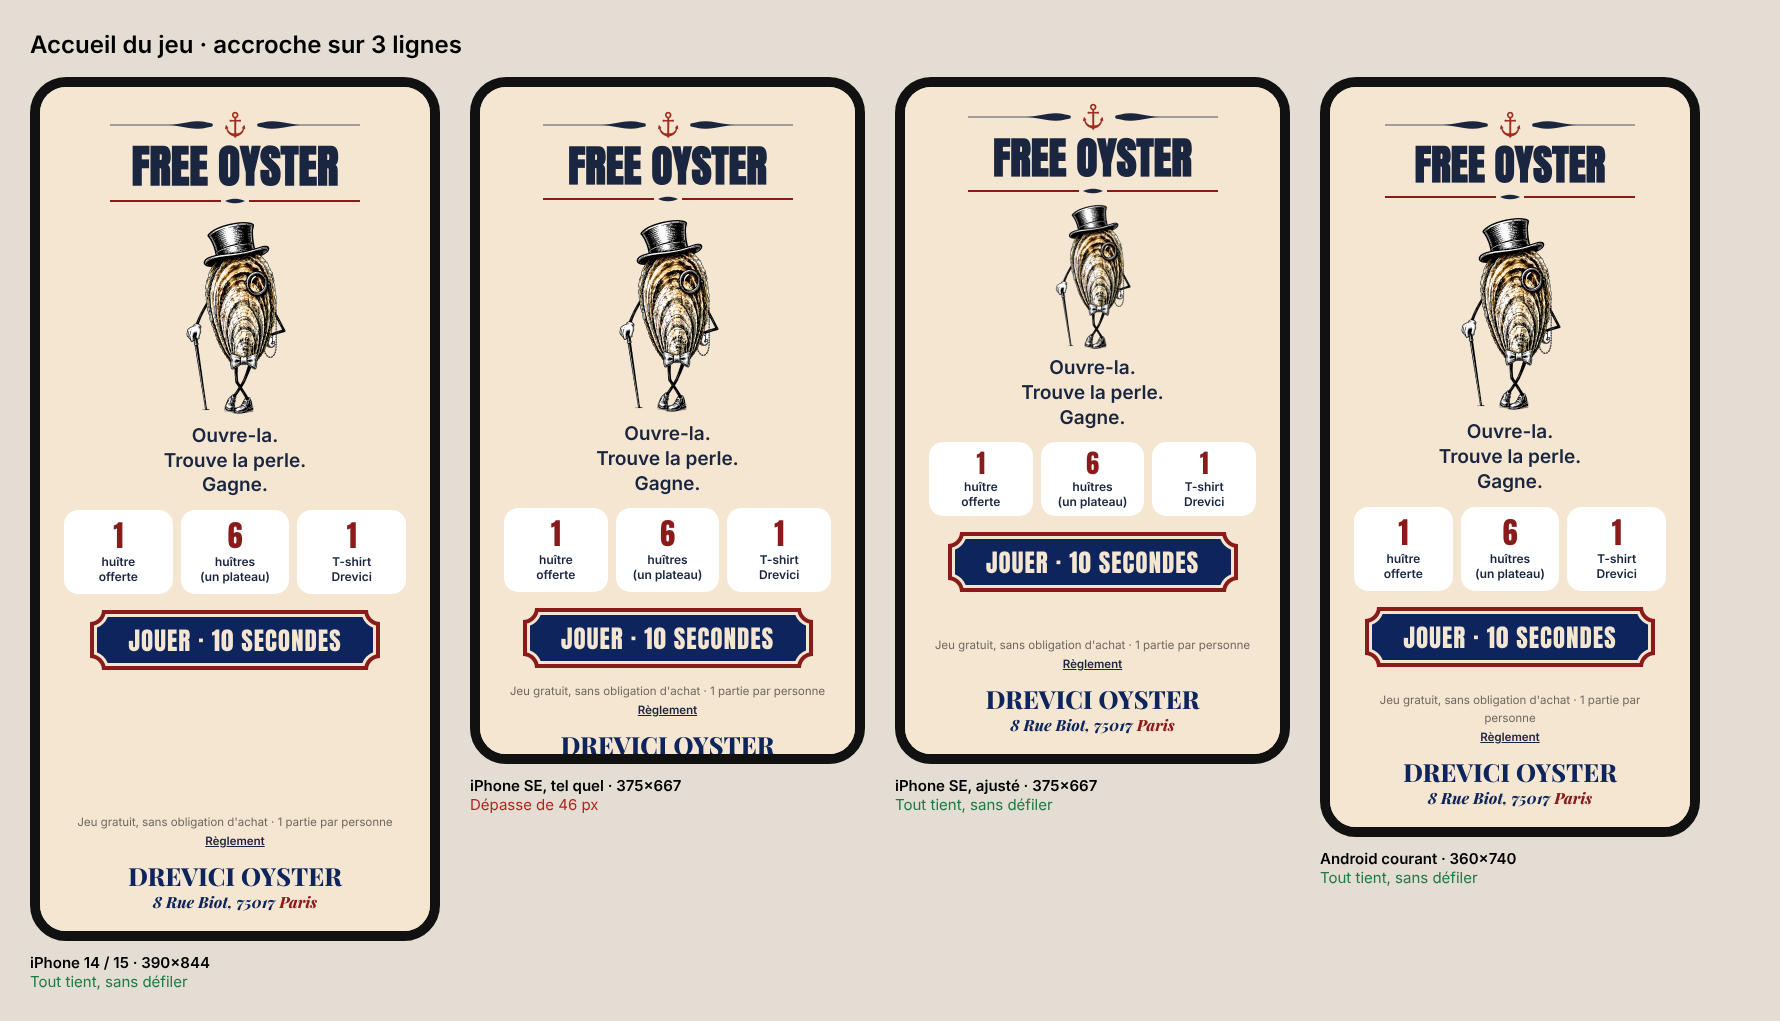
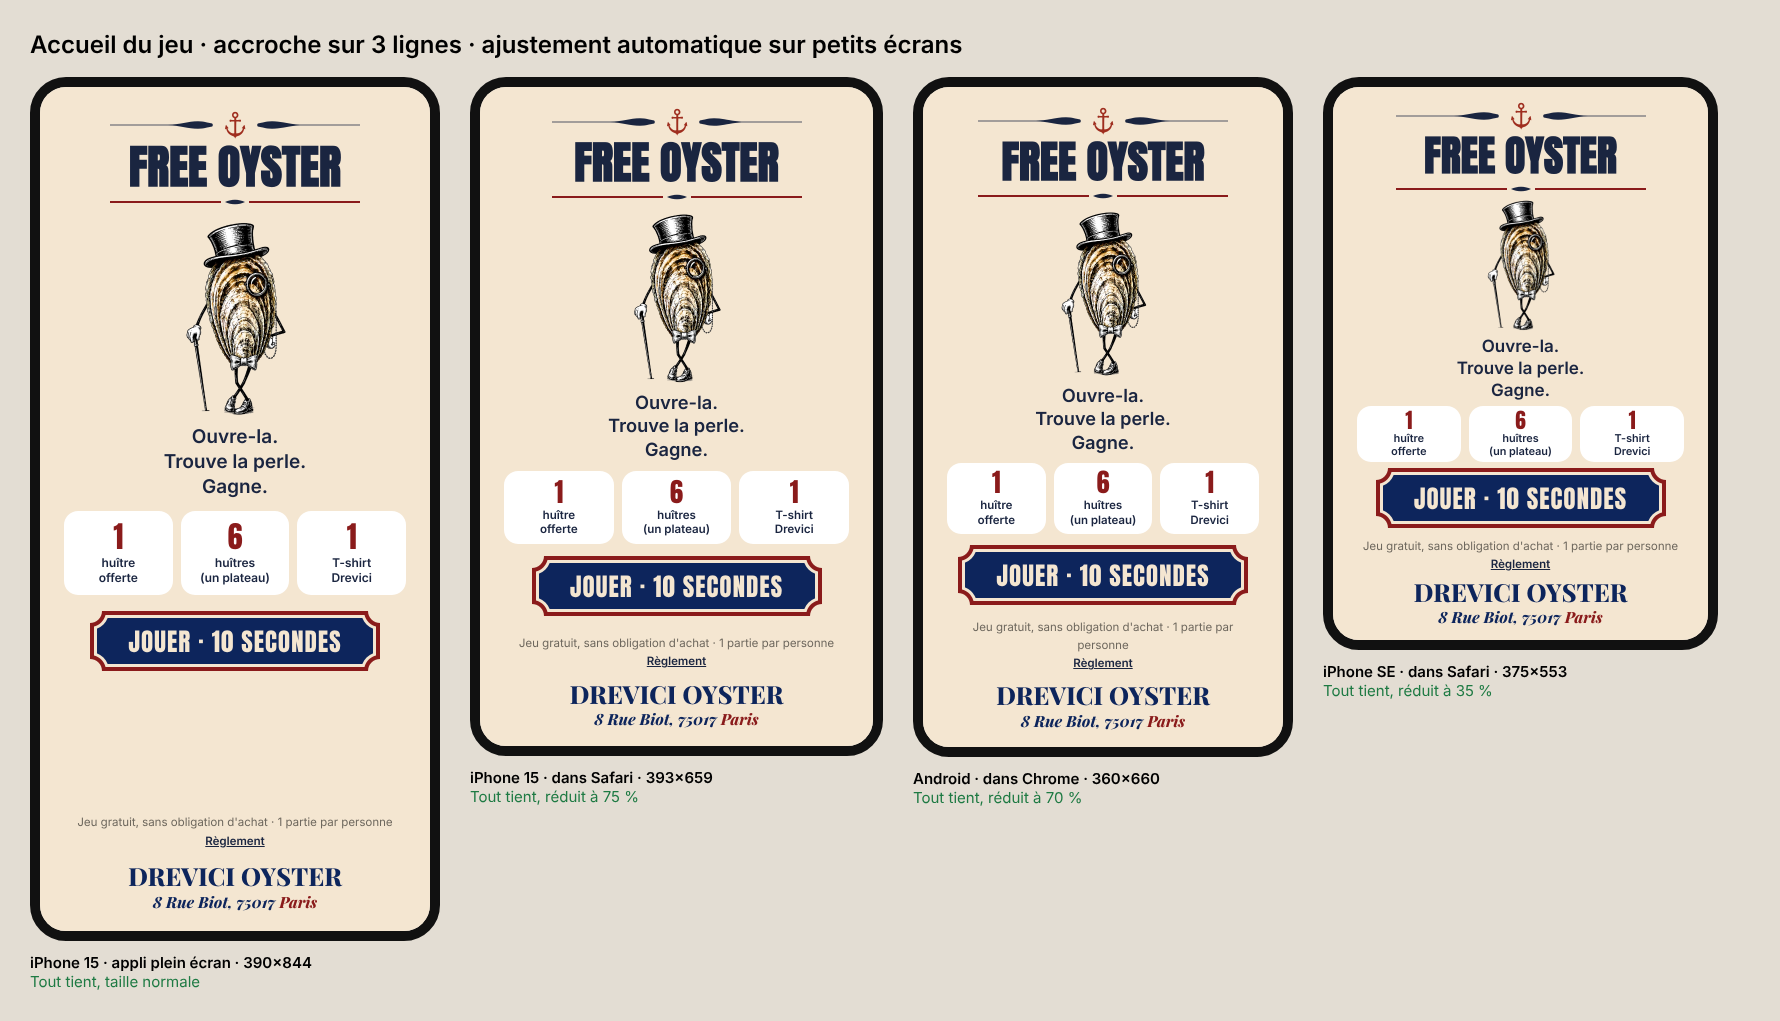
Jeu Free Oyster : maquette ajustement automatique de l'accueil aux petits écrans
Claude-Session: https://claude.ai/code/session_012ueJSkHMqbZpvX7x5D3Dw2

diff --git a/tools/jeu/maquette-accroche.html b/tools/jeu/maquette-accroche.html
@@ -1,1 +1,1 @@
-<!doctype html><html><head><meta charset="utf-8"><link rel="stylesheet" href="https://fonts.googleapis.com/css2?family=Inter:wght@400;600&display=swap"></head><body style="margin:0;background:#e3ddd3;padding:30px;width:1720px;font-family:Inter"><h1 style="font-size:24px;margin:0 0 18px">Accueil du jeu · accroche sur 3 lignes</h1><div style="display:flex;gap:30px;align-items:flex-start"><figure style="margin:0"><img src="_accroche-390x844-0.png" style="width:390px;height:844px;border-radius:36px;border:10px solid #111"><figcaption style="font:600 15px Inter;margin-top:8px">iPhone 14 / 15 · 390×844<br><span style="font-weight:400;color:#1e7a43">Tout tient, sans défiler</span></figcaption></figure><figure style="margin:0"><img src="_accroche-375x667-0.png" style="width:375px;height:667px;border-radius:36px;border:10px solid #111"><figcaption style="font:600 15px Inter;margin-top:8px">iPhone SE, tel quel · 375×667<br><span style="font-weight:400;color:#b3261e">Dépasse de 46 px</span></figcaption></figure><figure style="margin:0"><img src="_accroche-375x667-1.png" style="width:375px;height:667px;border-radius:36px;border:10px solid #111"><figcaption style="font:600 15px Inter;margin-top:8px">iPhone SE, ajusté · 375×667<br><span style="font-weight:400;color:#1e7a43">Tout tient, sans défiler</span></figcaption></figure><figure style="margin:0"><img src="_accroche-360x740-0.png" style="width:360px;height:740px;border-radius:36px;border:10px solid #111"><figcaption style="font:600 15px Inter;margin-top:8px">Android courant · 360×740<br><span style="font-weight:400;color:#1e7a43">Tout tient, sans défiler</span></figcaption></figure></div></body></html>
+<!doctype html><html><head><meta charset="utf-8"><link rel="stylesheet" href="https://fonts.googleapis.com/css2?family=Inter:wght@400;600&display=swap"></head><body style="margin:0;background:#e3ddd3;padding:30px;width:1720px;font-family:Inter"><h1 style="font-size:24px;margin:0 0 18px">Accueil du jeu · accroche sur 3 lignes · ajustement automatique sur petits écrans</h1><div style="display:flex;gap:30px;align-items:flex-start"><figure style="margin:0"><img src="_accroche-390x844-1.png" style="width:390px;height:844px;border-radius:36px;border:10px solid #111"><figcaption style="font:600 15px Inter;margin-top:8px">iPhone 15 · appli plein écran · 390×844<br><span style="font-weight:400;color:#1e7a43">Tout tient, taille normale</span></figcaption></figure><figure style="margin:0"><img src="_accroche-393x659-1.png" style="width:393px;height:659px;border-radius:36px;border:10px solid #111"><figcaption style="font:600 15px Inter;margin-top:8px">iPhone 15 · dans Safari · 393×659<br><span style="font-weight:400;color:#1e7a43">Tout tient, réduit à 75 %</span></figcaption></figure><figure style="margin:0"><img src="_accroche-360x660-1.png" style="width:360px;height:660px;border-radius:36px;border:10px solid #111"><figcaption style="font:600 15px Inter;margin-top:8px">Android · dans Chrome · 360×660<br><span style="font-weight:400;color:#1e7a43">Tout tient, réduit à 70 %</span></figcaption></figure><figure style="margin:0"><img src="_accroche-375x553-1.png" style="width:375px;height:553px;border-radius:36px;border:10px solid #111"><figcaption style="font:600 15px Inter;margin-top:8px">iPhone SE · dans Safari · 375×553<br><span style="font-weight:400;color:#1e7a43">Tout tient, réduit à 35 %</span></figcaption></figure></div></body></html>

diff --git a/tools/jeu/maquette-accroche.py b/tools/jeu/maquette-accroche.py
@@ -3,8 +3,19 @@ import asyncio
 from playwright.async_api import async_playwright
 OUT = '/home/claude/menu/tools/jeu/'
 NEW = '<div class="tx" style="font:600 19px/1.3 Inter;margin-bottom:12px">Ouvre-la.<br>Trouve la perle.<br>Gagne.</div>'
-SIZES = [(390, 844, 'iPhone 14 / 15', 0), (375, 667, 'iPhone SE, tel quel', 0), (375, 667, 'iPhone SE, ajusté', 1), (360, 740, 'Android courant', 0)]
-FIX = '@media (max-height:700px){#s-home img{height:150px!important;margin:6px 0 4px!important}.lot{padding:8px 4px 7px}.lot b{font-size:26px}.scr{padding-top:calc(env(safe-area-inset-top) + 14px)}}'
+SIZES = [(390, 844, 'iPhone 15 · appli plein écran', 1), (393, 659, 'iPhone 15 · dans Safari', 1), (360, 660, 'Android · dans Chrome', 1), (375, 553, 'iPhone SE · dans Safari', 1)]
+FITCSS = '''#s-home{--k:1}
+#s-home .masc{height:calc(200px*(.5 + .5*var(--k)))!important;margin:calc(12px*var(--k)) 0 calc(6px*var(--k))!important}
+#s-home .tx{font-size:calc(19px*(.84 + .16*var(--k)))!important;margin-bottom:calc(12px*var(--k))!important}
+#s-home .lot{padding:calc(11px*var(--k)) 4px calc(10px*var(--k));font-size:calc(12px*(.85 + .15*var(--k)))}
+#s-home .lot b{font-size:calc(30px*(.55 + .45*var(--k)));margin-bottom:calc(3px*var(--k))}
+#s-home .cart{margin-top:calc(16px*var(--k))!important}
+#s-home .sp{min-height:calc(14px*var(--k))}
+#s-home .brand{margin-top:calc(12px*var(--k))}
+#s-home.scr{padding-top:calc(env(safe-area-inset-top) + 8px + 14px*var(--k));padding-bottom:calc(env(safe-area-inset-bottom) + 8px + 10px*var(--k))}
+#s-home .ttl{font-size:calc(46px*(.86 + .14*var(--k)))}'''
+FITJS = '''()=>{const s=document.querySelector('#s-home');s.querySelector('img').classList.add('masc');let k=1;s.style.setProperty('--k',k);while(s.scrollHeight>innerHeight+1&&k>.25){k=Math.round((k-.05)*100)/100;s.style.setProperty('--k',k);}}'''
+FIX_OLD = '@media (max-height:700px){#s-home img{height:150px!important;margin:6px 0 4px!important}.lot{padding:8px 4px 7px}.lot b{font-size:26px}.scr{padding-top:calc(env(safe-area-inset-top) + 14px)}}'
 async def main():
     async with async_playwright() as p:
         b = await p.chromium.launch(); figs = ''
@@ -12,13 +23,16 @@ async def main():
             pg = await b.new_page(viewport={'width': w, 'height': h}, device_scale_factor=2)
             await pg.goto('http://localhost:8765/free-oyster.html', wait_until='networkidle')
             await pg.evaluate("h=>{const t=document.querySelector('#s-home .tx'); t.outerHTML=h;}", NEW)
-            if fx: await pg.add_style_tag(content=FIX)
+            if fx:
+                await pg.add_style_tag(content=FITCSS)
+                await pg.evaluate(FITJS)
+            k = await pg.evaluate("getComputedStyle(document.querySelector('#s-home')).getPropertyValue('--k')||'1'")
             await pg.wait_for_timeout(300)
             over = await pg.evaluate("document.querySelector('.scr.on').scrollHeight - innerHeight")
             await pg.screenshot(path=OUT + f'_accroche-{w}x{h}-{fx}.png')
-            figs += f'<figure style="margin:0"><img src="_accroche-{w}x{h}-{fx}.png" style="width:{w}px;height:{h}px;border-radius:36px;border:10px solid #111"><figcaption style="font:600 15px Inter;margin-top:8px">{n} · {w}×{h}<br><span style="font-weight:400;color:{"#1e7a43" if over <= 0 else "#b3261e"}">{"Tout tient, sans défiler" if over <= 0 else f"Dépasse de {over} px"}</span></figcaption></figure>'
-            print(n, 'dépasse' if over > 0 else 'tient', over)
-        html = f'<!doctype html><html><head><meta charset="utf-8"><link rel="stylesheet" href="https://fonts.googleapis.com/css2?family=Inter:wght@400;600&display=swap"></head><body style="margin:0;background:#e3ddd3;padding:30px;width:1720px;font-family:Inter"><h1 style="font-size:24px;margin:0 0 18px">Accueil du jeu · accroche sur 3 lignes</h1><div style="display:flex;gap:30px;align-items:flex-start">{figs}</div></body></html>'
+            figs += f'<figure style="margin:0"><img src="_accroche-{w}x{h}-{fx}.png" style="width:{w}px;height:{h}px;border-radius:36px;border:10px solid #111"><figcaption style="font:600 15px Inter;margin-top:8px">{n} · {w}×{h}<br><span style="font-weight:400;color:{"#1e7a43" if over <= 0 else "#b3261e"}">{("Tout tient, taille normale" if str(k).strip() in ("1","") else f"Tout tient, réduit à {int(float(k)*100)} %") if over <= 0 else f"Dépasse de {over} px"}</span></figcaption></figure>'
+            print(n, 'dépasse' if over > 0 else 'tient', over, k)
+        html = f'<!doctype html><html><head><meta charset="utf-8"><link rel="stylesheet" href="https://fonts.googleapis.com/css2?family=Inter:wght@400;600&display=swap"></head><body style="margin:0;background:#e3ddd3;padding:30px;width:1720px;font-family:Inter"><h1 style="font-size:24px;margin:0 0 18px">Accueil du jeu · accroche sur 3 lignes · ajustement automatique sur petits écrans</h1><div style="display:flex;gap:30px;align-items:flex-start">{figs}</div></body></html>'
         open(OUT + 'maquette-accroche.html', 'w').write(html)
         pg = await b.new_page(viewport={'width': 1780, 'height': 900}); await pg.goto('file://' + OUT + 'maquette-accroche.html', wait_until='networkidle')
         await pg.screenshot(path=OUT + 'maquette-accroche.png', full_page=True); await b.close()
